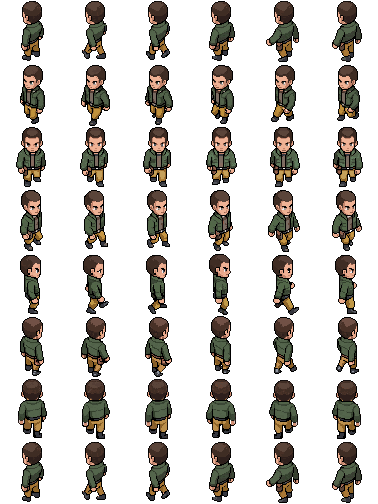
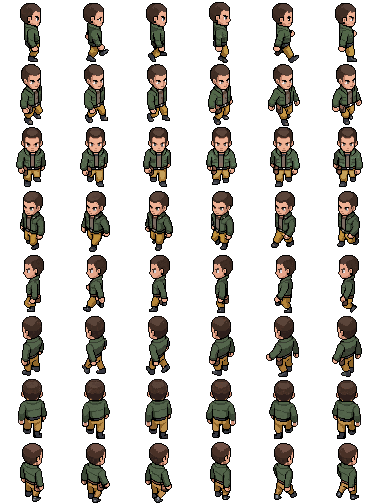
fix: character direction matching dropped west and duplicated northwest
find_for_direction() asked "which file contains 'west'?" — but 'west' is a
substring of 'northwest' and 'southwest', and 'east' of 'northeast' and
'southeast'. Every candidate also passed the endswith() tie-break, so it fell
through to alphabetical order: walking-northwest.gif sorts before
walking-west.gif. West therefore resolved to the northwest art. West was never
in the sheet and northwest appeared twice — 7 distinct directions, not 8.

Replaced with a bijection: classify each FILE by the longest direction its name
ends with, then require exactly one file per direction. Ambiguity and gaps are
now hard errors naming the offending files, not silent guesses. The tool also
prints its direction -> file assignment on every run.

This also retracts the previous commit's claim that the source art labels
east/west mirrored. It does not. That conclusion came from comparing east
against northwest — the bug's output — rather than against west. With the
matching fixed, east and west are clean mirror profiles and the artist's compass
is the standard screen mapping. DIRECTIONS is back to east=right, west=left.

Added tools/check_character_directions.py: renders both sheets as a labelled
contact sheet, one arrow per row, so an orientation error is visible at a glance
instead of being argued about from a 63px thumbnail. This is the check whose
absence let the original mistake through.

Added production/art-sources/character-v2/ as the tracked home for character
[…]

diff --git a/tools/check_character_directions.py b/tools/check_character_directions.py
@@ -1,0 +1,101 @@
+#!/usr/bin/env python3
+"""Render a labelled contact sheet of the built character sheets, to eyeball directions.
+
+Direction mix-ups are the failure mode of an 8-way character: the sheet builds fine, the
+game runs fine, and the character just walks backwards. A still frame in isolation is hard
+to judge, so this lays all 8 out in screen order with an arrow on each, which makes a wrong
+row obvious at a glance.
+
+    python3 tools/check_character_directions.py [--out PATH]
+
+Read it as: "when the player walks THIS way (arrow), the character looks like THIS."
+Row 0 must face right, row 2 face the camera, row 4 face left, row 6 face away.
+"""
+
+from __future__ import annotations
+
+import argparse
+import sys
+from pathlib import Path
+
+try:
+    from PIL import Image, ImageDraw, ImageFont
+except ImportError:  # pragma: no cover - environment guard
+    sys.exit("Pillow is required: python3 -m pip install Pillow")
+
+SHEETS = [
+    ("WALKING", Path("assets/art/characters/char_mechanic_walk.png")),
+    ("IDLE", Path("assets/art/characters/char_mechanic_idle.png")),
+]
+ARROWS = ["-> right", "\\  down-right", "|  down", "/  down-left",
+          "<- left", "\\  up-left", "|  up", "/  up-right"]
+ROWS = 8
+ZOOM = 4
+PAD = 10
+BG = (24, 27, 33)
+FG = (232, 232, 232)
+ACCENT = (120, 220, 150)
+
+
+def load_font(size: int):
+    for path in ("/System/Library/Fonts/HelveticaNeue.ttc",
+                 "/System/Library/Fonts/Helvetica.ttc",
+                 "/usr/share/fonts/truetype/dejavu/DejaVuSans.ttf"):
+        try:
+            return ImageFont.truetype(path, size)
+        except OSError:
+            continue
+    return ImageFont.load_default()
+
+
+def main() -> int:
+    ap = argparse.ArgumentParser(description=__doc__,
+                                 formatter_class=argparse.RawDescriptionHelpFormatter)
+    ap.add_argument("--out", type=Path, default=Path("character_directions.png"))
+    args = ap.parse_args()
+
+    font = load_font(13)
+    title_font = load_font(15)
+    panels = []
+
+    for label, path in SHEETS:
+        if not path.exists():
+            print(f"  missing: {path} — run build_character_spritesheets.py first")
+            continue
+        sheet = Image.open(path).convert("RGBA")
+        side = sheet.height // ROWS
+        if sheet.width % side:
+            print(f"  {path.name}: width {sheet.width} is not a whole number of "
+                  f"{side}px square frames — the sheet is malformed")
+            continue
+        cols = sheet.width // side
+        fw = side * ZOOM
+        panel = Image.new("RGB", (PAD + ROWS * (fw + PAD), fw + 54), BG)
+        d = ImageDraw.Draw(panel)
+        d.text((PAD, 6), f"{label}  ({cols} frames per direction)", font=title_font, fill=FG)
+        for row in range(ROWS):
+            frame = sheet.crop((0, row * side, side, (row + 1) * side))
+            frame = frame.resize((fw, fw), Image.NEAREST)
+            x = PAD + row * (fw + PAD)
+            panel.paste(frame, (x, 26), frame)
+            d.text((x, 30 + fw), f"{row}  {ARROWS[row]}", font=font, fill=ACCENT)
+        panels.append(panel)
+
+    if not panels:
+        return 1
+
+    out = Image.new("RGB", (max(p.width for p in panels),
+                            sum(p.height for p in panels) + PAD), BG)
+    y = 0
+    for p in panels:
+        out.paste(p, (0, y))
+        y += p.height + PAD
+    args.out.parent.mkdir(parents=True, exist_ok=True)
+    out.save(args.out)
+    print(f"  wrote {args.out} ({out.width}x{out.height})")
+    print("  Row 0 must face RIGHT, row 2 the CAMERA, row 4 LEFT, row 6 AWAY.")
+    return 0
+
+
+if __name__ == "__main__":
+    raise SystemExit(main())

diff --git a/tools/build_character_spritesheets.py b/tools/build_character_spritesheets.py
@@ -45,21 +45,17 @@ except ImportError:  # pragma: no cover - environment guard
 # player is heading i * 45 degrees, computed as round(atan2(dy, dx) / 45deg) with +x right
 # and +y DOWN. Must match overworld_screen.gd's direction indexing.
 #
-# THE SOURCE FILENAMES ARE MIRRORED ON X — verified by eye against the delivered art:
-# the file named "east" draws the character facing screen-LEFT, "southeast" faces
-# down-LEFT, "northeast" up-LEFT, and so on; only north and south are unambiguous. So the
-# compass word paired with each screen direction below is the artist's label, deliberately
-# swapped east<->west. Re-check this if a new art delivery uses a different convention:
-# render row 0 and confirm the character faces right.
+# The compass words are the STANDARD screen mapping — east is screen-right, south is
+# toward the camera. Name the source files to match and the sheet comes out correct.
 DIRECTIONS = [
-    "west",       # row 0 — heading right
-    "southwest",  # row 1 — down-right
+    "east",       # row 0 — heading right
+    "southeast",  # row 1 — down-right
     "south",      # row 2 — down (faces camera)
-    "southeast",  # row 3 — down-left
-    "east",       # row 4 — left
-    "northeast",  # row 5 — up-left
+    "southwest",  # row 3 — down-left
+    "west",       # row 4 — left
+    "northwest",  # row 5 — up-left
     "north",      # row 6 — up (faces away)
-    "northwest",  # row 7 — up-right
+    "northeast",  # row 7 — up-right
 ]
 
 OUT_DIR = Path("assets/art/characters")
@@ -75,21 +71,52 @@ def normalise(name: str) -> str:
     return re.sub(r"[^a-z]", "", name.lower())
 
 
-def find_for_direction(files: list[Path], direction: str) -> Path:
-    """Pick the file whose name contains this direction, preferring the longest match.
+def assign_directions(files: list[Path], folder: Path) -> dict[str, Path]:
+    """Map each direction to exactly one file, by classifying every file once.
 
-    Longest-first matters: 'north' is a substring of 'northeast', so matching greedily
-    would hand the northeast art to north.
+    Substring matching in the other direction (asking "which file contains 'west'?") is a
+    trap: 'west' is inside 'northwest' and 'southwest', 'east' is inside 'northeast' and
+    'southeast'. Any tie-break on top of that -- shortest name, alphabetical -- silently
+    hands one compass point another's art and leaves a direction unused. That exact bug
+    shipped once here: 'west' resolved to walking-northwest.gif, so west was missing and
+    northwest appeared twice.
+
+    So: classify each FILE by the LONGEST direction its normalised name ends with, then
+    require the result to be a bijection. Ambiguity becomes a hard error, not a guess.
     """
-    target = normalise(direction)
-    matches = [f for f in files if target in normalise(f.stem)]
-    if not matches:
-        raise SystemExit(f"  no file matches direction '{direction}' in {files[0].parent}")
-    if len(matches) > 1:
-        # Prefer an exact stem match, else the shortest name (fewest extra tokens).
-        exact = [f for f in matches if normalise(f.stem).endswith(target)]
-        matches = exact or sorted(matches, key=lambda f: len(f.stem))
-    return matches[0]
+    longest_first = sorted(DIRECTIONS, key=len, reverse=True)
+    owner: dict[str, list[Path]] = {d: [] for d in DIRECTIONS}
+    unmatched: list[Path] = []
+
+    for f in files:
+        stem = normalise(f.stem)
+        hit = next((d for d in longest_first if stem.endswith(normalise(d))), None)
+        if hit is None:
+            unmatched.append(f)
+        else:
+            owner[hit].append(f)
+
+    problems = []
+    for d in DIRECTIONS:
+        if not owner[d]:
+            problems.append(f"    '{d}': no file")
+        elif len(owner[d]) > 1:
+            names = ", ".join(p.name for p in owner[d])
+            problems.append(f"    '{d}': {len(owner[d])} files ({names})")
+    if problems:
+        detail = "\n".join(problems)
+        extra = ""
+        if unmatched:
+            extra = "\n    unrecognised: " + ", ".join(p.name for p in unmatched)
+        raise SystemExit(
+            f"  {folder}: each of the 8 directions needs exactly one file.\n"
+            f"{detail}{extra}\n"
+            "  Name files so each ends with its direction, e.g. walking-northwest.gif."
+        )
+    if unmatched:
+        print(f"    ignoring {len(unmatched)} file(s) with no direction in the name: "
+              + ", ".join(p.name for p in unmatched))
+    return {d: owner[d][0] for d in DIRECTIONS}
 
 
 def load_frames(path: Path) -> list[Image.Image]:
@@ -133,9 +160,11 @@ def main() -> int:
             print(f"  skip: {src} not found")
             continue
         files = sorted(p for p in src.iterdir() if p.suffix.lower() in {".gif", ".png"})
+        chosen = assign_directions(files, src)
         per_dir = []
         for d in DIRECTIONS:
-            frames = load_frames(find_for_direction(files, d))
+            print(f"    {d:10} <- {chosen[d].name}")
+            frames = load_frames(chosen[d])
             per_dir.append(frames)
             all_frames.extend(frames)
         counts = {len(f) for f in per_dir}

diff --git a/production/art-sources/character-v2/README.md b/production/art-sources/character-v2/README.md
@@ -1,0 +1,74 @@
+# Character sprite source — drop new art here
+
+This is the **source** folder for the player character. Put the delivered files in the
+subfolders below, then run one command to turn them into the sheets the game loads.
+
+Nothing here is loaded by the game directly (`.gdignore` keeps Godot out of it) — these
+are the originals. The build tool writes the game-facing sheets into
+`assets/art/characters/`.
+
+---
+
+## Where each file goes
+
+```
+character-v2/
+├── char-idle/       one file per direction — the standing/breathing loop
+├── char-walking/    one file per direction — the walk cycle
+└── char-model/      optional: static poses, not used by the overworld yet
+```
+
+`char-idle/` and `char-walking/` are the two the game uses. Both accept **animated GIF**
+or **still PNG**.
+
+## The 8 directions
+
+One file per direction in each folder, with the direction word somewhere in the filename:
+
+| File contains | Character should be walking / facing | On screen |
+|---|---|---|
+| `east` | right | → |
+| `southeast` | down and right | ↘ |
+| `south` | toward the camera | ↓ |
+| `southwest` | down and left | ↙ |
+| `west` | left | ← |
+| `northwest` | up and left | ↖ |
+| `north` | away from the camera | ↑ |
+| `northeast` | up and right | ↗ |
+
+**`east` = facing the RIGHT side of the screen. `south` = facing the player.**
+
+Filenames are matched loosely — case, spaces, hyphens and underscores are all ignored — so
+`walking-east.gif`, `Walking East.GIF` and `walk_EAST.png` are equivalent. Longest match
+wins, so `northeast` is never mistaken for `north`.
+
+## Rules the art must follow
+
+1. **Every frame the same canvas size**, within a folder and across both folders. The
+   build tool crops all of them to one shared box so the character does not jitter between
+   frames or jump between idle and walk — that only works if the framing is consistent.
+2. **Same frame count for all 8 directions** inside a folder. Idle and walk may differ from
+   each other (e.g. idle 4, walk 6); they just have to be internally consistent.
+3. Transparent background.
+
+## Build it
+
+```
+python3 tools/build_character_spritesheets.py production/art-sources/character-v2
+```
+
+This writes `assets/art/characters/char_mechanic_idle.png` and `char_mechanic_walk.png`,
+then Godot picks them up on the next import. No code changes.
+
+## Check it before trusting it
+
+Directions are the thing that goes wrong, and it is not obvious in a still frame. After
+building, render a labelled contact sheet:
+
+```
+python3 tools/check_character_directions.py
+```
+
+Row 0 must show the character oriented **rightward**, row 2 facing the **camera**, row 4
+**leftward**, row 6 **away**. If a row disagrees, the source file for that direction is
+mislabelled — rename it rather than changing the tool.